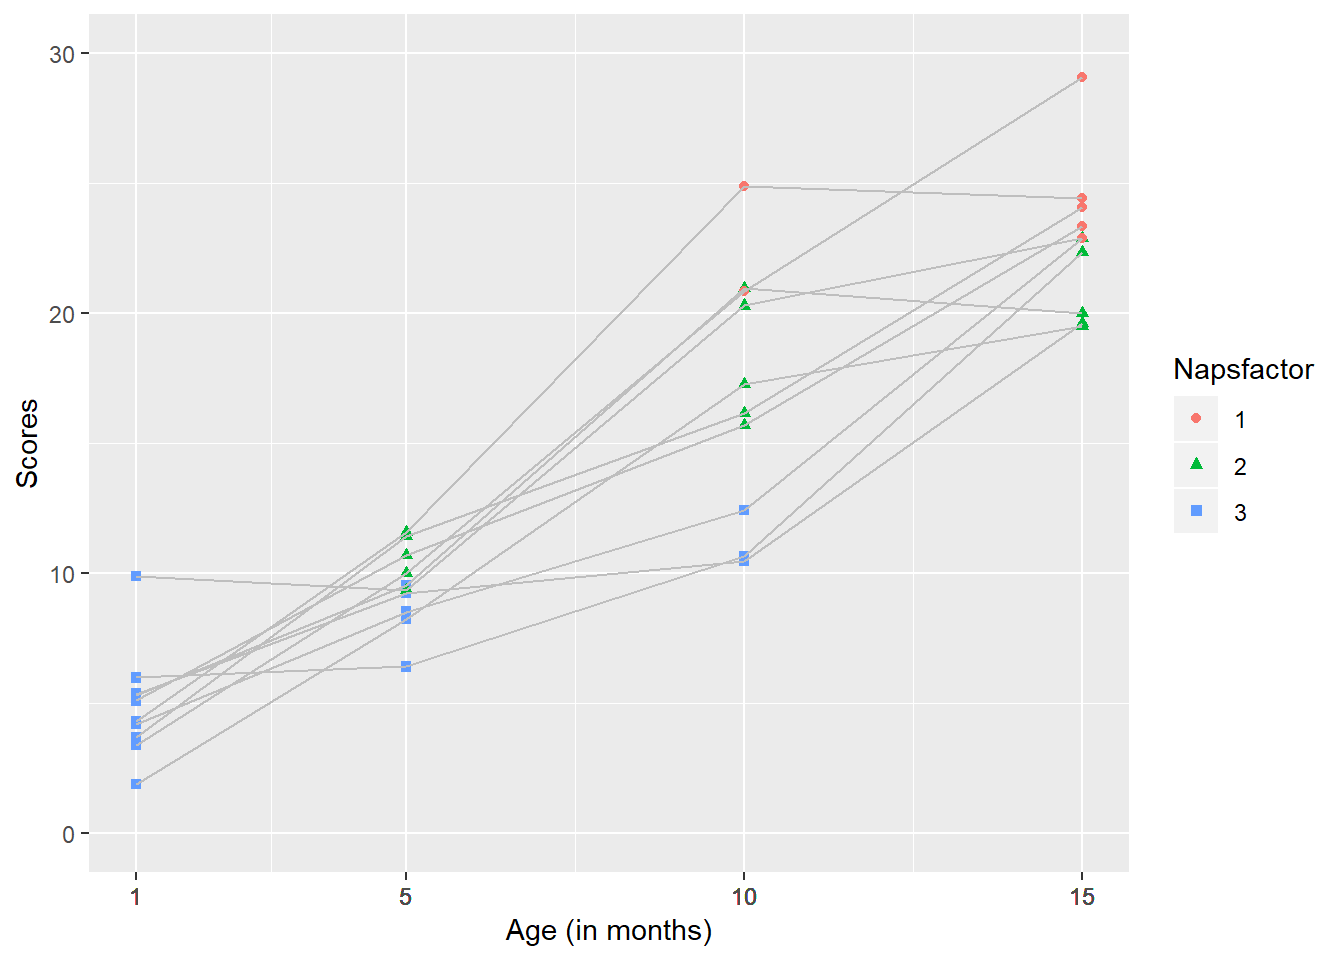
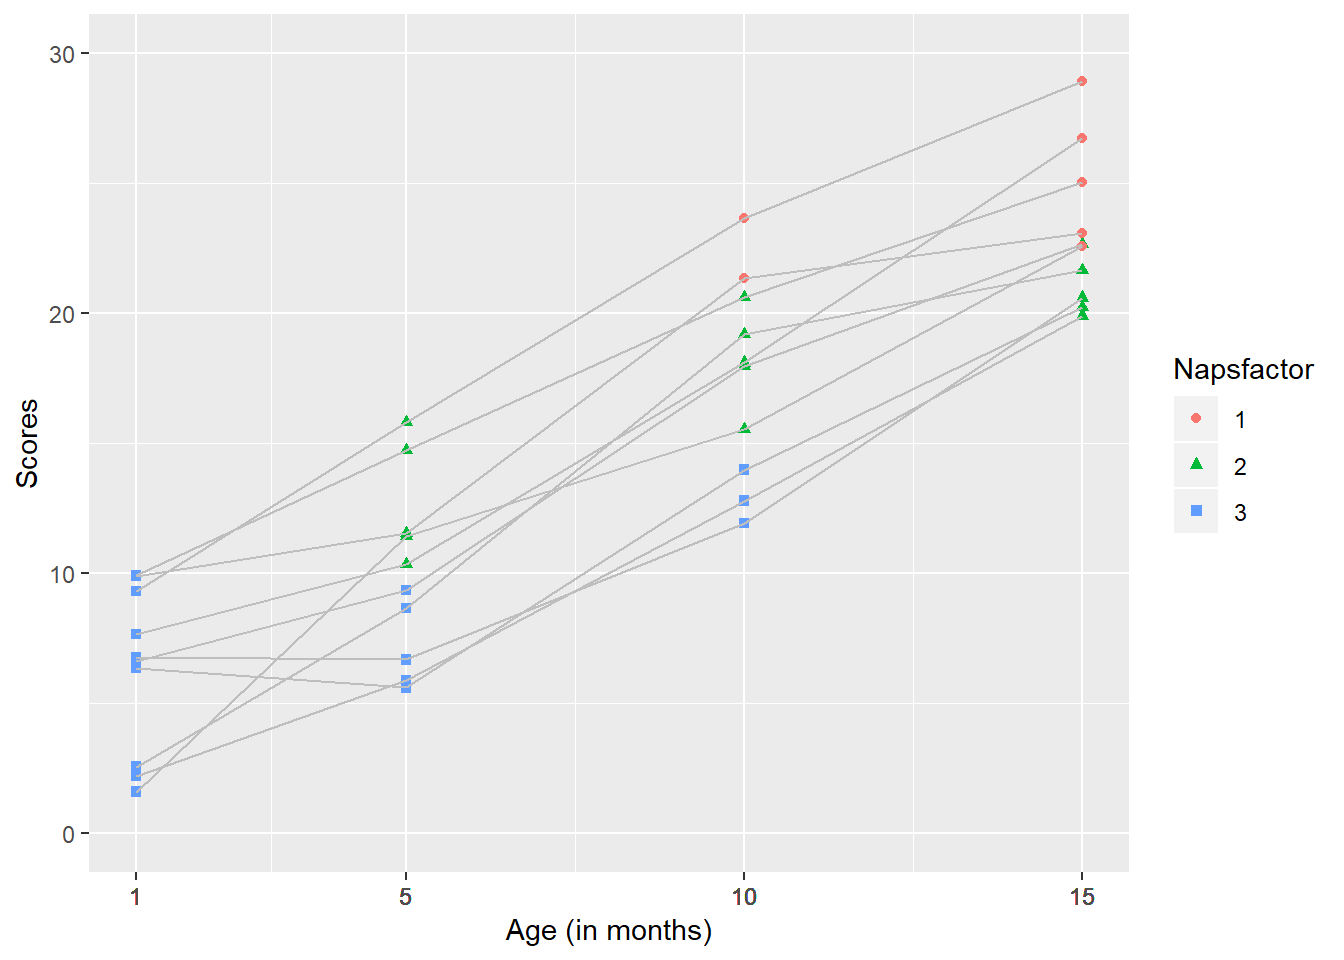
fix

diff --git a/docs/tutorial_Horger.html b/docs/tutorial_Horger.html
@@ -297,6 +297,9 @@ $(document).ready(function () {
   <a href="Links.html">Links</a>
 </li>
 <li>
+  <a href="Final_project_presentation.html">lme tutorial</a>
+</li>
+<li>
   <a href="Journal.html">Learning R</a>
 </li>
 <li>
@@ -310,9 +313,6 @@ $(document).ready(function () {
 </li>
 <li>
   <a href="StatisticsProblems.html">Statistics Problems</a>
-</li>
-<li>
-  <a href="Final_project_presentation.html">lme tutorial</a>
 </li>
       </ul>
       <ul class="nav navbar-nav navbar-right">
@@ -409,46 +409,46 @@ dataset &lt;- data.frame(Subs, Month, Naps, scores, Napsfactor)
 #Data should be set up in long format and look similar to this. 
 print(dataset)</code></pre>
 <pre><code>##    Subs Month Naps    scores Napsfactor
-## 1     1     1    3  3.559548          3
-## 2     2     1    3  1.131729          3
-## 3     3     1    3  4.674819          3
-## 4     4     1    3  6.211738          3
-## 5     5     1    3  6.550482          3
-## 6     6     1    3  5.021205          3
-## 7     7     1    3  5.557805          3
-## 8     8     1    3  1.467005          3
-## 9     9     1    3  1.062385          3
-## 10   10     1    3  2.861429          3
-## 11    1     5    2 13.569809          2
-## 12    2     5    3 11.152426          3
-## 13    3     5    2 13.396708          2
-## 14    4     5    1 14.857283          1
-## 15    5     5    2 11.592400          2
-## 16    6     5    3 14.568657          3
-## 17    7     5    2 12.957473          2
-## 18    8     5    3 10.371636          3
-## 19    9     5    2 11.436934          2
-## 20   10     5    3  9.991930          3
-## 21    1    10    2 18.915873          2
-## 22    2    10    2 21.712504          2
-## 23    3    10    2 18.089780          2
-## 24    4    10    2 16.218572          2
-## 25    5    10    3 21.732503          3
-## 26    6    10    3 20.690274          3
-## 27    7    10    2 17.824922          2
-## 28    8    10    2 17.257436          2
-## 29    9    10    1 19.235394          1
-## 30   10    10    2 18.616451          2
-## 31    1    15    3 24.512337          3
-## 32    2    15    1 24.223798          1
-## 33    3    15    2 24.196542          2
-## 34    4    15    2 26.703375          2
-## 35    5    15    1 23.164199          1
-## 36    6    15    1 28.800954          1
-## 37    7    15    2 25.846855          2
-## 38    8    15    1 29.514226          1
-## 39    9    15    2 25.380073          2
-## 40   10    15    1 23.896167          1</code></pre>
+## 1     1     1    3  5.777343          3
+## 2     2     1    3  4.969103          3
+## 3     3     1    3  4.023590          3
+## 4     4     1    3  6.753474          3
+## 5     5     1    3  3.148649          3
+## 6     6     1    3  3.160805          3
+## 7     7     1    3  1.391414          3
+## 8     8     1    3  3.267487          3
+## 9     9     1    3  2.903457          3
+## 10   10     1    3  1.971525          3
+## 11    1     5    2 12.777491          2
+## 12    2     5    3  9.176589          3
+## 13    3     5    2  8.488744          2
+## 14    4     5    1 10.110880          1
+## 15    5     5    2 13.862863          2
+## 16    6     5    3  9.368038          3
+## 17    7     5    2 13.921026          2
+## 18    8     5    3 10.921226          3
+## 19    9     5    2 10.944937          2
+## 20   10     5    3  9.503540          3
+## 21    1    10    2 17.997722          2
+## 22    2    10    2 19.987164          2
+## 23    3    10    2 16.460653          2
+## 24    4    10    2 18.285312          2
+## 25    5    10    3 21.233943          3
+## 26    6    10    3 18.104043          3
+## 27    7    10    2 20.056797          2
+## 28    8    10    2 18.234440          2
+## 29    9    10    1 21.415238          1
+## 30   10    10    2 18.095909          2
+## 31    1    15    3 29.095934          3
+## 32    2    15    1 23.329670          1
+## 33    3    15    2 25.849653          2
+## 34    4    15    2 28.528172          2
+## 35    5    15    1 29.002895          1
+## 36    6    15    1 28.421084          1
+## 37    7    15    2 24.300097          2
+## 38    8    15    1 29.900218          1
+## 39    9    15    2 25.864910          2
+## 40   10    15    1 25.453796          1</code></pre>
 <pre class="r"><code>demos &lt;- dataset %&gt;%
     group_by(Month, Naps) %&gt;%
   summarise(mean_score = mean(scores, na.rm=TRUE))</code></pre>
@@ -477,11 +477,11 @@ tutorial&lt;-lme(scores ~ Month * Naps, random = ~ Month | Subs, data=dataset)
 tut&lt;- summary(tutorial)
 tabl = tut$tTable 
 tabl </code></pre>
-<pre><code>##                  Value Std.Error DF   t-value      p-value
-## (Intercept) 11.2239257 2.7921149 27  4.019865 0.0004199041
-## Month        0.8822450 0.2284324 27  3.862171 0.0006365775
-## Naps        -2.8861072 0.9914862 27 -2.910890 0.0071401474
-## Month:Naps   0.2450795 0.0892798 27  2.745072 0.0106271681</code></pre>
+<pre><code>##                   Value  Std.Error DF   t-value      p-value
+## (Intercept)  5.93419230 2.61871254 27  2.266072 3.167432e-02
+## Month        1.39515529 0.21708377 27  6.426806 6.926969e-07
+## Naps        -1.30245310 0.93830837 27 -1.388086 1.764591e-01
+## Month:Naps   0.08977273 0.08594521 27  1.044535 3.055003e-01</code></pre>
 <p>From this analysis, we would conclude that there is a main effect of age, infants performance improved with age, but there is no effect of number of naps. It was trending in the correct direction as the only negative slope.</p>
 </div>
 <div id="we-can-also-graph-our-results." class="section level4">
@@ -514,46 +514,46 @@ secondscores &lt;- c(runif(10, 1, 10), runif(5, 5, 10),runif(5, 9, 17), runif(3,
 
 print(seconddataset)</code></pre>
 <pre><code>##    Subs Month Naps secondscores Napsfactor
-## 1     1     1    3     5.371954          3
-## 2     2     1    3     4.213821          3
-## 3     3     1    3     5.995781          3
-## 4     4     1    3     5.303604          3
-## 5     5     1    3     1.891198          3
-## 6     6     1    3     9.888303          3
-## 7     7     1    3     3.695422          3
-## 8     8     1    3     5.110896          3
-## 9     9     1    3     4.326832          3
-## 10   10     1    3     3.406355          3
-## 11    1     5    3     9.261806          3
-## 12    2     5    3     8.529425          3
-## 13    3     5    3     6.425222          3
-## 14    4     5    3     9.537204          3
-## 15    5     5    3     8.242998          3
-## 16    6     5    2     9.371257          2
-## 17    7     5    2    11.426355          2
-## 18    8     5    2    10.695660          2
-## 19    9     5    2    11.599269          2
-## 20   10     5    2    10.012403          2
-## 21    1    10    3    10.487805          3
-## 22    2    10    3    12.445456          3
-## 23    3    10    3    10.663913          3
-## 24    4    10    2    20.963013          2
-## 25    5    10    2    17.276485          2
-## 26    6    10    2    20.298941          2
-## 27    7    10    2    16.172562          2
-## 28    8    10    2    15.716082          2
-## 29    9    10    1    24.884576          1
-## 30   10    10    1    20.867053          1
-## 31    1    15    2    19.620853          2
-## 32    2    15    2    22.895443          2
-## 33    3    15    2    22.358966          2
-## 34    4    15    2    20.005040          2
-## 35    5    15    2    19.513430          2
-## 36    6    15    1    22.888907          1
-## 37    7    15    1    24.081422          1
-## 38    8    15    1    23.369936          1
-## 39    9    15    1    24.412287          1
-## 40   10    15    1    29.076276          1</code></pre>
+## 1     1     1    3     2.217667          3
+## 2     2     1    3     6.367609          3
+## 3     3     1    3     6.775385          3
+## 4     4     1    3     6.616066          3
+## 5     5     1    3     2.568900          3
+## 6     6     1    3     1.603589          3
+## 7     7     1    3     7.656522          3
+## 8     8     1    3     9.921970          3
+## 9     9     1    3     9.886254          3
+## 10   10     1    3     9.319893          3
+## 11    1     5    3     5.884512          3
+## 12    2     5    3     5.616490          3
+## 13    3     5    3     6.689642          3
+## 14    4     5    3     9.351333          3
+## 15    5     5    3     8.660668          3
+## 16    6     5    2    11.427439          2
+## 17    7     5    2    10.353794          2
+## 18    8     5    2    14.730122          2
+## 19    9     5    2    11.560119          2
+## 20   10     5    2    15.831283          2
+## 21    1    10    3    12.797558          3
+## 22    2    10    3    13.990580          3
+## 23    3    10    3    11.940326          3
+## 24    4    10    2    17.957349          2
+## 25    5    10    2    19.188966          2
+## 26    6    10    2    15.548389          2
+## 27    7    10    2    18.106740          2
+## 28    8    10    2    20.621882          2
+## 29    9    10    1    21.369674          1
+## 30   10    10    1    23.678666          1
+## 31    1    15    2    19.911896          2
+## 32    2    15    2    20.249369          2
+## 33    3    15    2    20.604235          2
+## 34    4    15    2    22.675996          2
+## 35    5    15    2    21.651957          2
+## 36    6    15    1    22.570525          1
+## 37    7    15    1    26.723810          1
+## 38    8    15    1    25.044013          1
+## 39    9    15    1    23.068432          1
+## 40   10    15    1    28.945255          1</code></pre>
 </div>
 <div id="did-the-manipulation-work" class="section level2">
 <h2>Did the manipulation work?</h2>
@@ -575,29 +575,29 @@ print(demos)</code></pre>
 ## # Groups:   Month [4]
 ##    Month  Naps mean_score
 ##    &lt;dbl&gt; &lt;dbl&gt;      &lt;dbl&gt;
-##  1     1     3       3.81
-##  2     5     1      14.9 
-##  3     5     2      12.6 
-##  4     5     3      11.5 
-##  5    10     1      19.2 
+##  1     1     3       3.74
+##  2     5     1      10.1 
+##  3     5     2      12.0 
+##  4     5     3       9.74
+##  5    10     1      21.4 
 ##  6    10     2      18.4 
-##  7    10     3      21.2 
-##  8    15     1      25.9 
-##  9    15     2      25.5 
-## 10    15     3      24.5</code></pre>
+##  7    10     3      19.7 
+##  8    15     1      27.2 
+##  9    15     2      26.1 
+## 10    15     3      29.1</code></pre>
 <pre class="r"><code>print(seconddemos)</code></pre>
 <pre><code>## # A tibble: 8 x 3
 ## # Groups:   Month [4]
 ##   Month  Naps mean_secondscore
 ##   &lt;dbl&gt; &lt;dbl&gt;            &lt;dbl&gt;
-## 1     1     3             4.92
-## 2     5     2            10.6 
-## 3     5     3             8.40
-## 4    10     1            22.9 
-## 5    10     2            18.1 
-## 6    10     3            11.2 
-## 7    15     1            24.8 
-## 8    15     2            20.9</code></pre>
+## 1     1     3             6.29
+## 2     5     2            12.8 
+## 3     5     3             7.24
+## 4    10     1            22.5 
+## 5    10     2            18.3 
+## 6    10     3            12.9 
+## 7    15     1            25.3 
+## 8    15     2            21.0</code></pre>
 <p>It may or may not because we’re still drawing a random sample, but the trend should be clearer than during the first example.</p>
 </div>
 <div id="now-run-the-analysis-again" class="section level2">
@@ -610,11 +610,11 @@ secondtutorial&lt;-lme(secondscores ~ Month * Naps, random = ~ Month | Subs, dat
 secondtut&lt;- summary(secondtutorial)
 secondtabl = secondtut$tTable 
 secondtabl </code></pre>
-<pre><code>##                   Value Std.Error DF    t-value      p-value
-## (Intercept) 15.51658488 3.6801367 27  4.2163067 0.0002491709
-## Month        0.97848023 0.2885724 27  3.3907621 0.0021606564
-## Naps        -3.84521649 1.2969596 27 -2.9647928 0.0062625254
-## Month:Naps  -0.05385315 0.1116401 27 -0.4823818 0.6334224894</code></pre>
+<pre><code>##                   Value  Std.Error DF    t-value      p-value
+## (Intercept) 14.99240705 3.51122608 27  4.2698495 0.0002160126
+## Month        0.92014431 0.25005865 27  3.6797140 0.0010260502
+## Naps        -3.33427407 1.19601642 27 -2.7878163 0.0096000349
+## Month:Naps  -0.02006306 0.09323711 27 -0.2151832 0.8312416447</code></pre>
 <pre class="r"><code>#Graph the results 
 
 secondplot&lt;-
